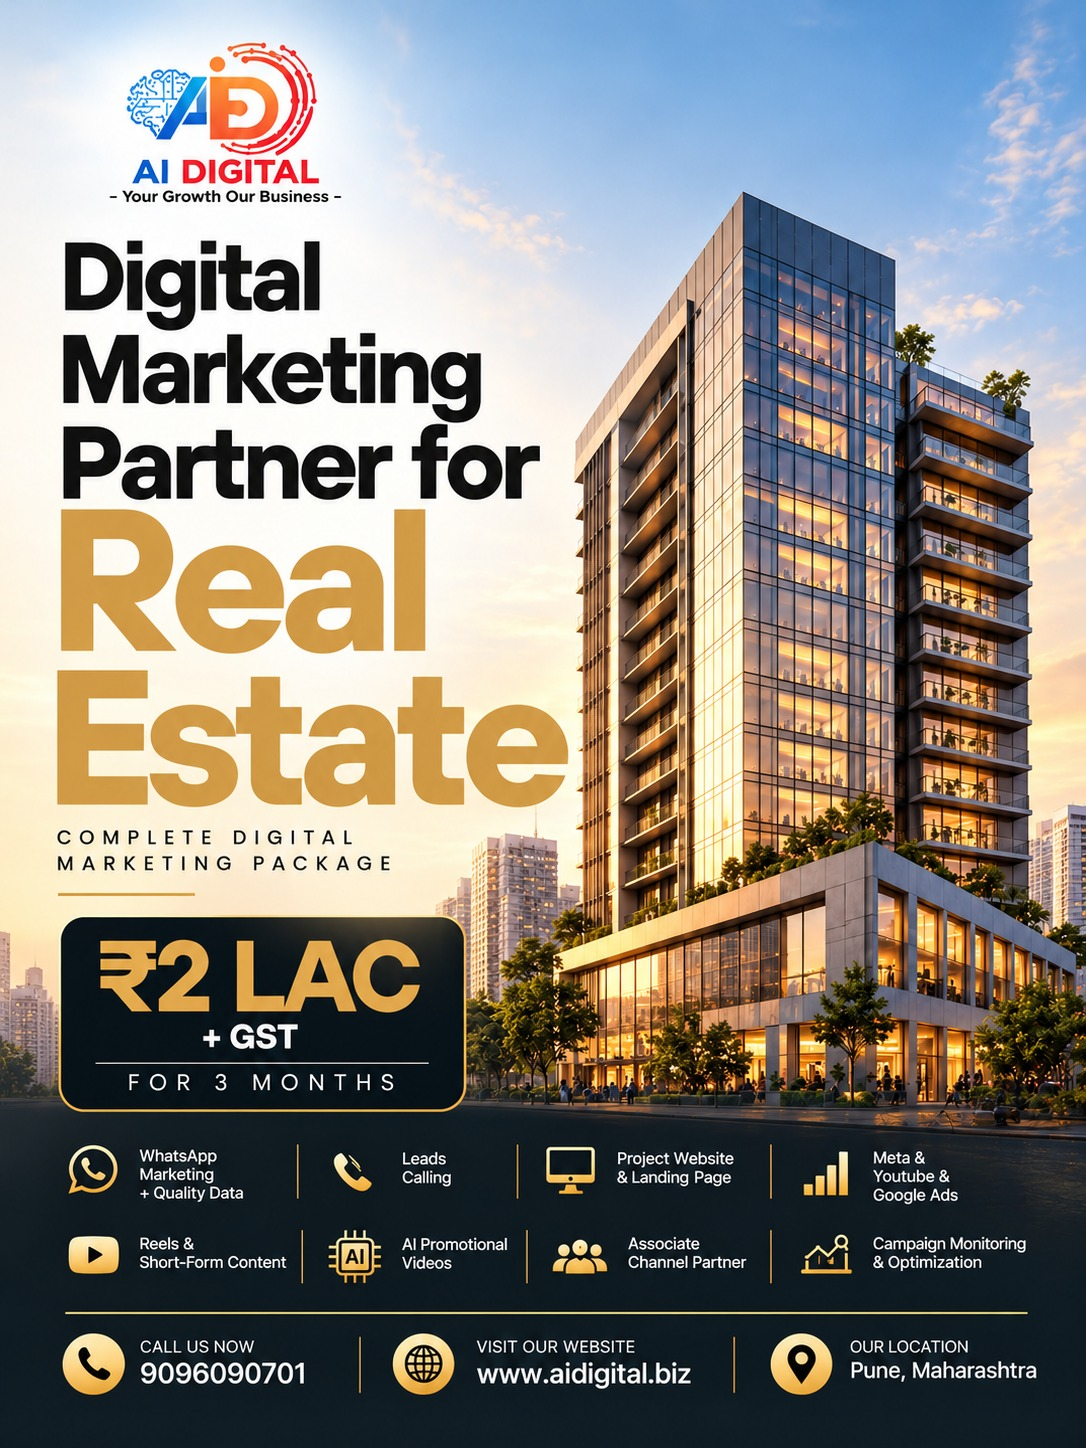
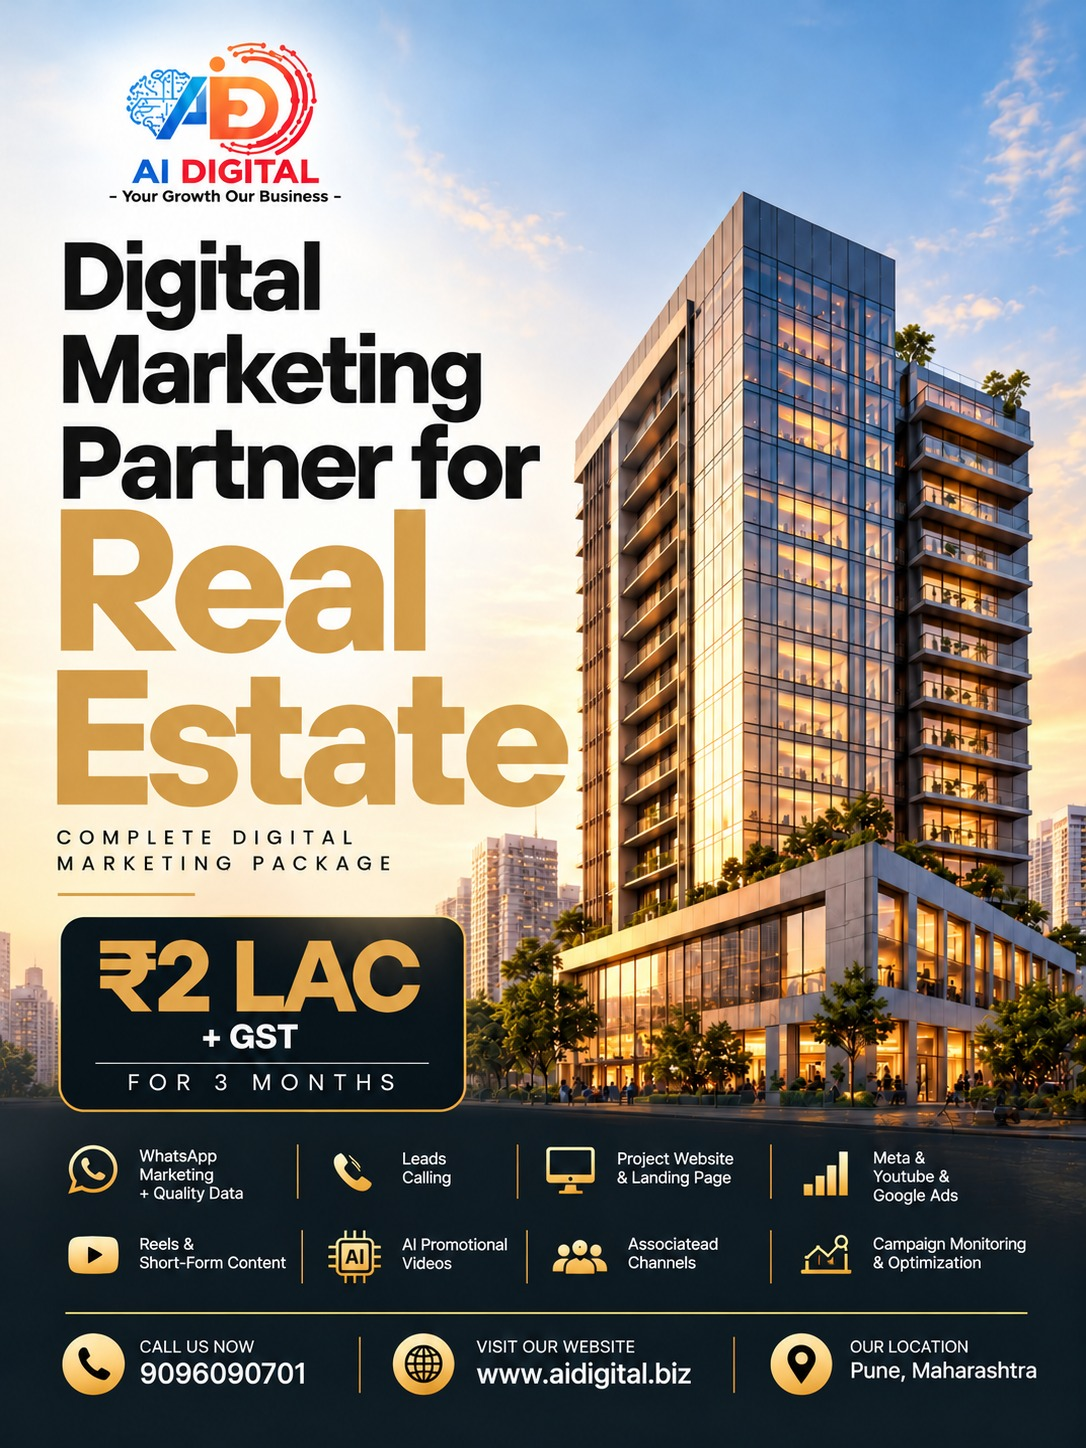
Update deliverable naming from Associate Channel Partner to Associated Channels

diff --git a/app/pricing/PricingClientPage.jsx b/app/pricing/PricingClientPage.jsx
@@ -35,7 +35,7 @@ const defaultIndustries = [
         { title: "Meta & Youtube & Google Ads", desc: "High-intent buyer campaigns across Meta (FB & IG), Google Search & YouTube Ads", icon: "bar_chart" },
         { title: "Reels & Short-Form Content", desc: "Engaging property reels showcasing amenities, site progress & walkthroughs", icon: "smart_display" },
         { title: "AI Promotional Videos", desc: "AI-assisted cinematic property walkthroughs, teasers & social promo videos", icon: "memory" },
-        { title: "Associate Channel Partner", desc: "Channel partner network collaboration & broker channel activation support", icon: "groups" },
+        { title: "Associated Channels", desc: "Channel partner network collaboration & broker channel activation support", icon: "groups" },
         { title: "Campaign Monitoring & Optimization", desc: "Daily ad tracking, continuous ROAS scaling & weekly verified CPL reporting", icon: "troubleshoot" }
       ],
       outcomes: [
@@ -48,15 +48,15 @@ const defaultIndustries = [
     faqs: [
       {
         question: "What is included in the ₹2 Lac Complete Real Estate Marketing Package?",
-        answer: "This package provides a comprehensive 3-month growth engine for builders, developers, and real estate channel partners. It includes WhatsApp Marketing + Quality Data, Leads Calling, Project Website & Landing Page, Meta & Youtube & Google Ads, Reels & Short-Form Content, AI Promotional Videos, Associate Channel Partner support, and Campaign Monitoring & Optimization."
+        answer: "This package provides a comprehensive 3-month growth engine for builders, developers, and real estate channel partners. It includes WhatsApp Marketing + Quality Data, Leads Calling, Project Website & Landing Page, Meta & Youtube & Google Ads, Reels & Short-Form Content, AI Promotional Videos, Associated Channels support, and Campaign Monitoring & Optimization."
       },
       {
         question: "Does the ₹2 Lac fee include advertising budget or is it separate?",
         answer: "The ₹2 Lac fee covers our full agency management, creative production, video development, landing page building, lead qualification team, and strategy for all 3 months. Ad spend (paid directly to Meta and Google) is separate and determined based on your target unit sales, inventory ticket size, and project locality. We help you set an optimal ad budget with zero wastage."
       },
       {
-        question: "How does the Associate Channel Partner collaboration work?",
-        answer: "As an Associate Channel Partner, we provide verified real estate marketing expertise, structured channel partner alignment, broker channel activation, and proven lead qualification funnels designed to deliver more quality leads, stronger brand presence, better project visibility, and end-to-end sales support."
+        question: "How does the Associated Channels collaboration work?",
+        answer: "Through Associated Channels, we provide verified real estate marketing expertise, structured channel partner alignment, broker channel activation, and proven lead qualification funnels designed to deliver more quality leads, stronger brand presence, better project visibility, and end-to-end sales support."
       },
       {
         question: "How does the Lead Verification and Qualification support work?",
@@ -274,7 +274,7 @@ export default function PricingClientPage() {
                   {(pkg.channelPartner || currentIndustry.id === "real-estate") && (
                     <div className="builder-asicote-badge">
                       <span className="material-symbols-outlined">groups</span>
-                      <span>{pkg.channelPartner === "Associate Channel Partner" ? "Associate Channel" : (pkg.channelPartner || "Associate Channel")}</span>
+                      <span>{pkg.channelPartner === "Associate Channel Partner" || pkg.channelPartner === "Associated Channels" ? "Associate Channel" : (pkg.channelPartner || "Associate Channel")}</span>
                     </div>
                   )}
                 </div>

diff --git a/app/components/PricingPopup.jsx b/app/components/PricingPopup.jsx
@@ -28,7 +28,7 @@ const defaultIndustries = [
         "Meta & Youtube & Google Ads",
         "Reels & Short-Form Content",
         "AI Promotional Videos",
-        "Associate Channel Partner",
+        "Associated Channels",
         "Campaign Monitoring & Optimization"
       ],
       outcomes: [
@@ -105,7 +105,7 @@ export default function PricingPopup({ dialogRef }) {
     if (clean.includes("Google Advertising") || clean.includes("Google Ads")) return "Google Search Ads";
     if (clean.includes("Reels")) return "Reels & Short Videos";
     if (clean.includes("Campaign Monitoring") || clean.includes("Campaign Optimization")) return "Campaign Optimization";
-    if (clean.includes("Associate Channel Partner")) return "Associate Channel Partner";
+    if (clean.includes("Associate Channel") || clean.includes("Associated Channels")) return "Associated Channels";
     if (clean.includes("Lead Qualification")) return "Lead Qualification";
     if (clean.includes("Lead Verification")) return "Lead Verification";
     if (clean.includes("Leads Calling")) return "Leads Calling";
@@ -601,7 +601,7 @@ export default function PricingPopup({ dialogRef }) {
               {(pkg.channelPartner || currentIndustry.id === "real-estate") && (
                 <span className="popup-mini-badge" style={{ background: "#FFFFFF", borderColor: "#B9974F", color: "#1e4d42" }}>
                   <span className="material-symbols-outlined" style={{ color: "#B9974F" }}>groups</span>
-                  {pkg.channelPartner === "Associate Channel Partner" ? "Associate Channel" : (pkg.channelPartner || "Associate Channel")}
+                  {pkg.channelPartner === "Associate Channel Partner" || pkg.channelPartner === "Associated Channels" ? "Associate Channel" : (pkg.channelPartner || "Associate Channel")}
                 </span>
               )}
             </div>
